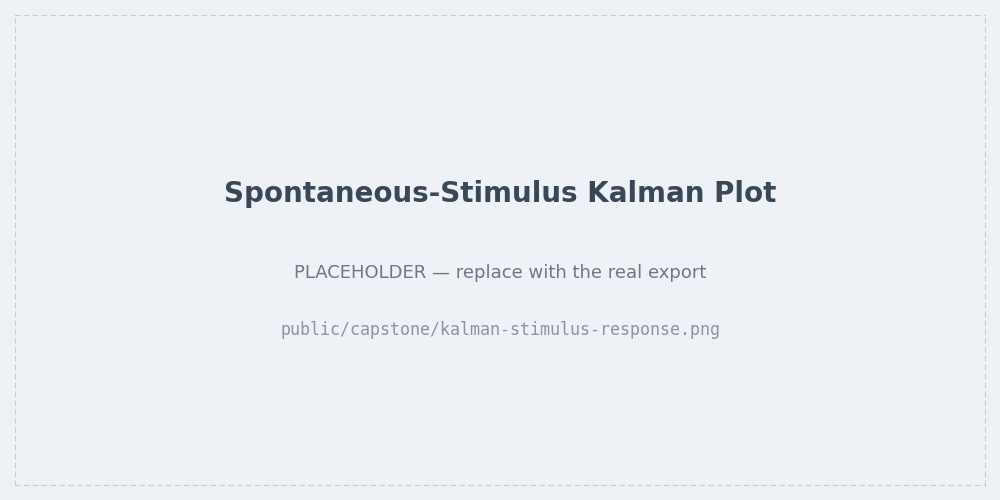
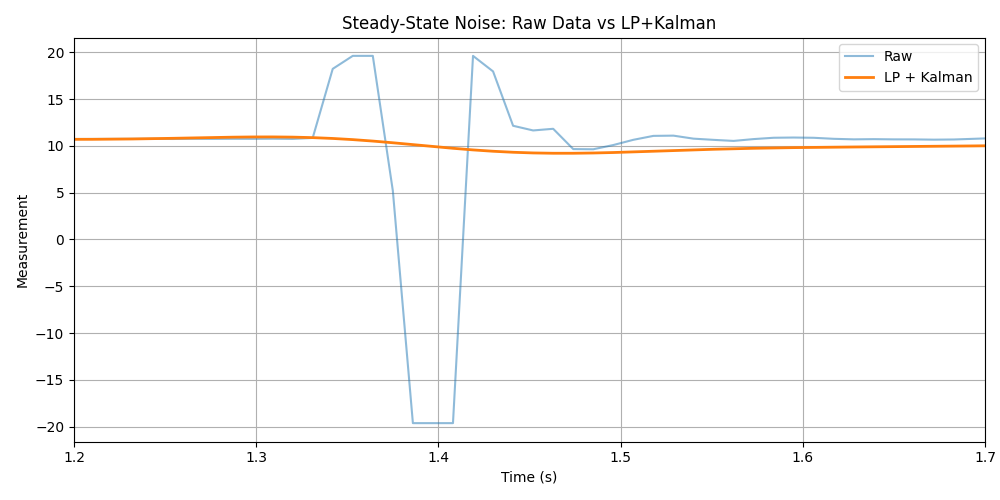
improvements to capstone project

diff --git a/src/components/Deck/slides/FieldTestingSlide.tsx b/src/components/Deck/slides/FieldTestingSlide.tsx
@@ -48,17 +48,45 @@ const FieldTestingSlide: FC<FieldTestingSlideProps> = memo(({slide, isLastSlide 
 
         {/* Top-center: virtual testing copy */}
         <div className="flex min-h-0 flex-col md:col-span-5 md:row-start-1">
-          <SectionLabel className="text-xs">Virtual testing environment</SectionLabel>
-          <p className="mt-1 text-xs leading-relaxed text-deck-text lg:text-sm">
-            We were heavily dependent on tidal windows and the marina&apos;s opening hours. Field testing was the best
-            way to learn how the boat really behaved, so I built a virtual testing environment that parsed our
-            real-world measurements from historical runs and replayed how the boat would have reacted under new
-            algorithm improvements, cutting the time to test and ship changes by weeks.
+          <p className="text-sm font-bold leading-snug text-deck-accent">
+            Our testing process was expensive and time-consuming.
           </p>
-          <p className="mt-2 text-xs leading-relaxed text-deck-text lg:text-sm">
-            I paired it with <strong>hardware-in-the-loop testing</strong>, driving the real servos from the full ROS2
-            stack with the remaining sensors simulated, to catch actuation bugs before any on-water run.
-          </p>
+          <ul className="mt-2 space-y-1.5">
+            <li className="flex gap-2 text-xs leading-snug text-deck-text lg:text-sm">
+              <span className="mt-1.5 h-1.5 w-1.5 shrink-0 rounded-full bg-deck-accent" />
+              <span>
+                We were heavily dependent on <strong>tidal windows</strong> and the marina&apos;s opening hours.
+              </span>
+            </li>
+            <li className="flex gap-2 text-xs leading-snug text-deck-text lg:text-sm">
+              <span className="mt-1.5 h-1.5 w-1.5 shrink-0 rounded-full bg-deck-accent" />
+              <span>
+                Although <strong>field testing</strong> was the best way to learn how the boat really behaved, we needed
+                a way to <strong>rapidly test new algorithm features</strong>.
+              </span>
+            </li>
+            <li className="flex gap-2 text-xs leading-snug text-deck-text lg:text-sm">
+              <span className="mt-1.5 h-1.5 w-1.5 shrink-0 rounded-full bg-deck-accent" />
+              <span>
+                I used our pre-existing data from prior tests to create a <strong>virtual testing environment</strong>{' '}
+                which simulated exactly how new iterations on the control algorithm would react to real-world data.
+              </span>
+            </li>
+            <li className="flex gap-2 text-xs leading-snug text-deck-text lg:text-sm">
+              <span className="mt-1.5 h-1.5 w-1.5 shrink-0 rounded-full bg-deck-accent" />
+              <span>
+                This let me and the team conduct <strong>hardware-in-the-loop testing</strong> in the lab, catching
+                actuation bugs before any on-water run.
+              </span>
+            </li>
+            <li className="flex gap-2 text-xs leading-snug text-deck-text lg:text-sm">
+              <span className="mt-1.5 h-1.5 w-1.5 shrink-0 rounded-full bg-deck-accent" />
+              <span>
+                This reduced the iteration time from{' '}
+                <strong className="text-deck-accent">days to hours</strong>.
+              </span>
+            </li>
+          </ul>
         </div>
 
         {/* Top-right: field photo */}

diff --git a/src/components/Deck/slides/CaptainOverviewSlide.tsx b/src/components/Deck/slides/CaptainOverviewSlide.tsx
@@ -59,7 +59,7 @@ const CaptainOverviewSlide: FC<CaptainOverviewSlideProps> = memo(
               {[
                 'Wave resistance wastes up to ~30% of a cargo ship’s fuel, about 1% of all global emissions.',
                 'Forecasting waves lets ships steer smarter, cutting fuel use by ~20% (≈ $9B a year).',
-                'We deploy a grid-based swarm of autonomous sailboats that map ocean currents in real time.',
+                'Our network of autonomous sailboats maps ocean currents in real time, steering cargo ships clear of high-wave waters.',
               ].map(item => (
                 <li className="flex gap-2 text-xs leading-snug text-deck-text sm:text-sm" key={item}>
                   <span className="mt-1.5 h-1.5 w-1.5 shrink-0 rounded-full bg-deck-accent" />
@@ -110,11 +110,12 @@ const CaptainOverviewSlide: FC<CaptainOverviewSlideProps> = memo(
             <div className="flex min-h-0 flex-col justify-between md:col-span-5">
               <div>
                 <p className="text-sm leading-snug text-deck-text sm:text-base">
-                  I built the ROS2 planner to steer <em>with</em> the wind, not a propeller:
+                  These boats run on <em>wind</em>, not a propeller — and you can&apos;t sail straight upwind, so my ROS2
+                  planner has to <em>tack</em> (zig-zag) to reach any target:
                 </p>
                 <ul className="mt-1 space-y-0.5">
                   {[
-                    'Sailing upwind by tacking',
+                    'Beating upwind by tacking across the wind',
                     'Dynamic waypoint tracking',
                     'Real-time wind and heading adjustments',
                   ].map(item => (
@@ -127,8 +128,8 @@ const CaptainOverviewSlide: FC<CaptainOverviewSlideProps> = memo(
               </div>
 
               {/* Headline result */}
-              <div className="mt-1.5 flex items-stretch gap-2 rounded-xl border border-deck-accent/40 bg-deck-accent-muted/40 p-1.5">
-                <figure className="w-16 shrink-0 overflow-hidden rounded-lg sm:w-20">
+              <div className="mt-1.5 flex items-center gap-2.5 rounded-xl border border-deck-accent/40 bg-deck-accent-muted/40 p-2">
+                <figure className="aspect-[3/4] w-24 shrink-0 overflow-hidden rounded-lg sm:w-28">
                   <img
                     alt="Kieran on the Berkeley Marina pier with an autonomous sail drone"
                     className="h-full w-full object-cover object-center"